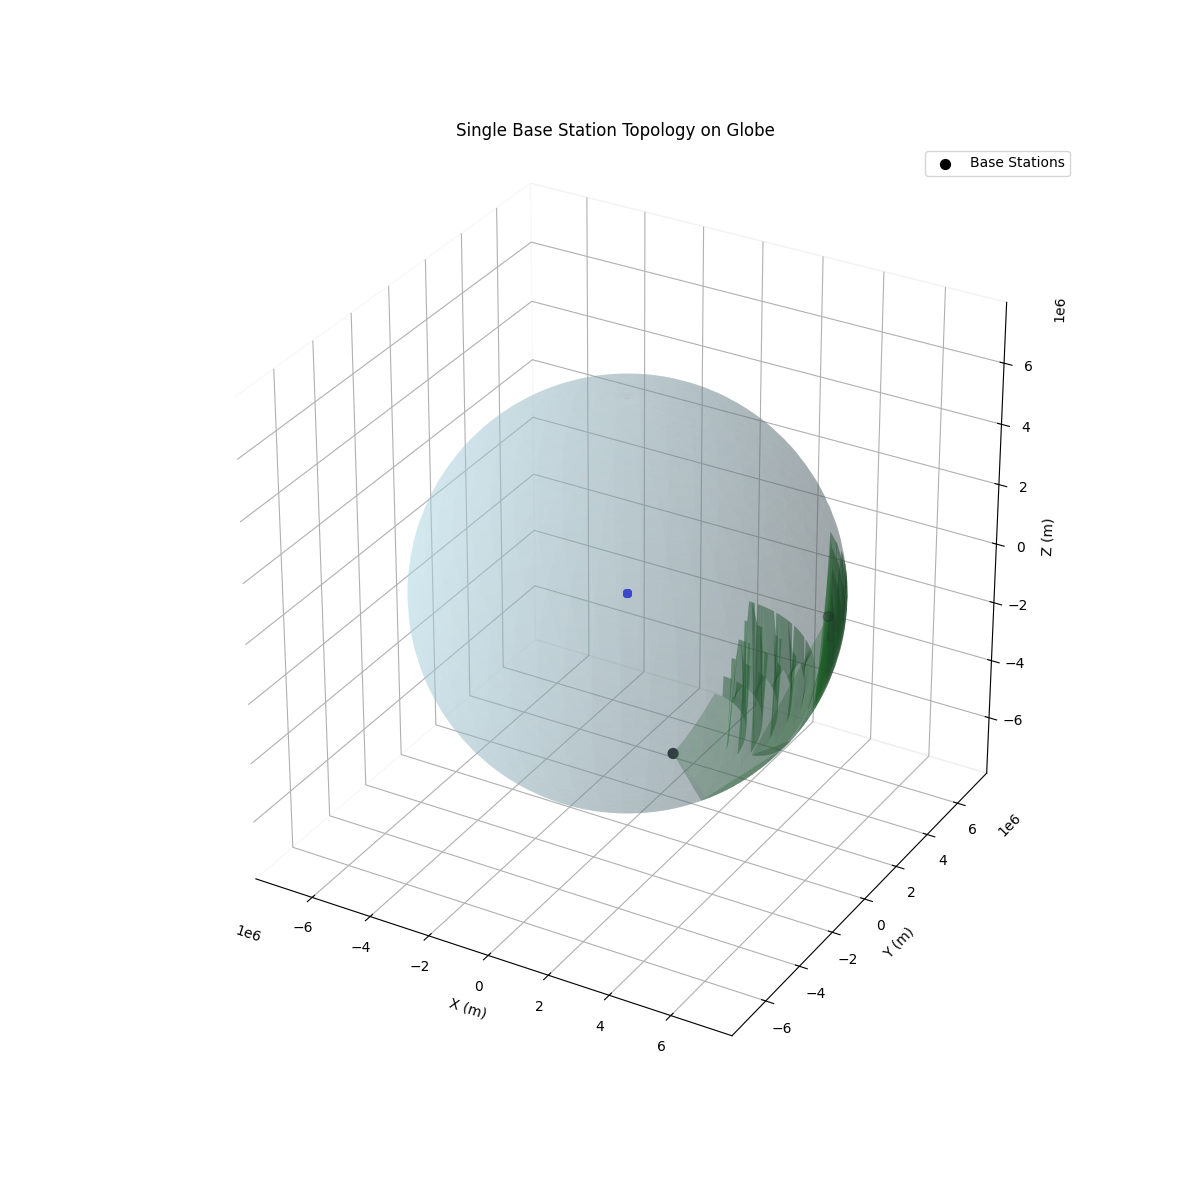
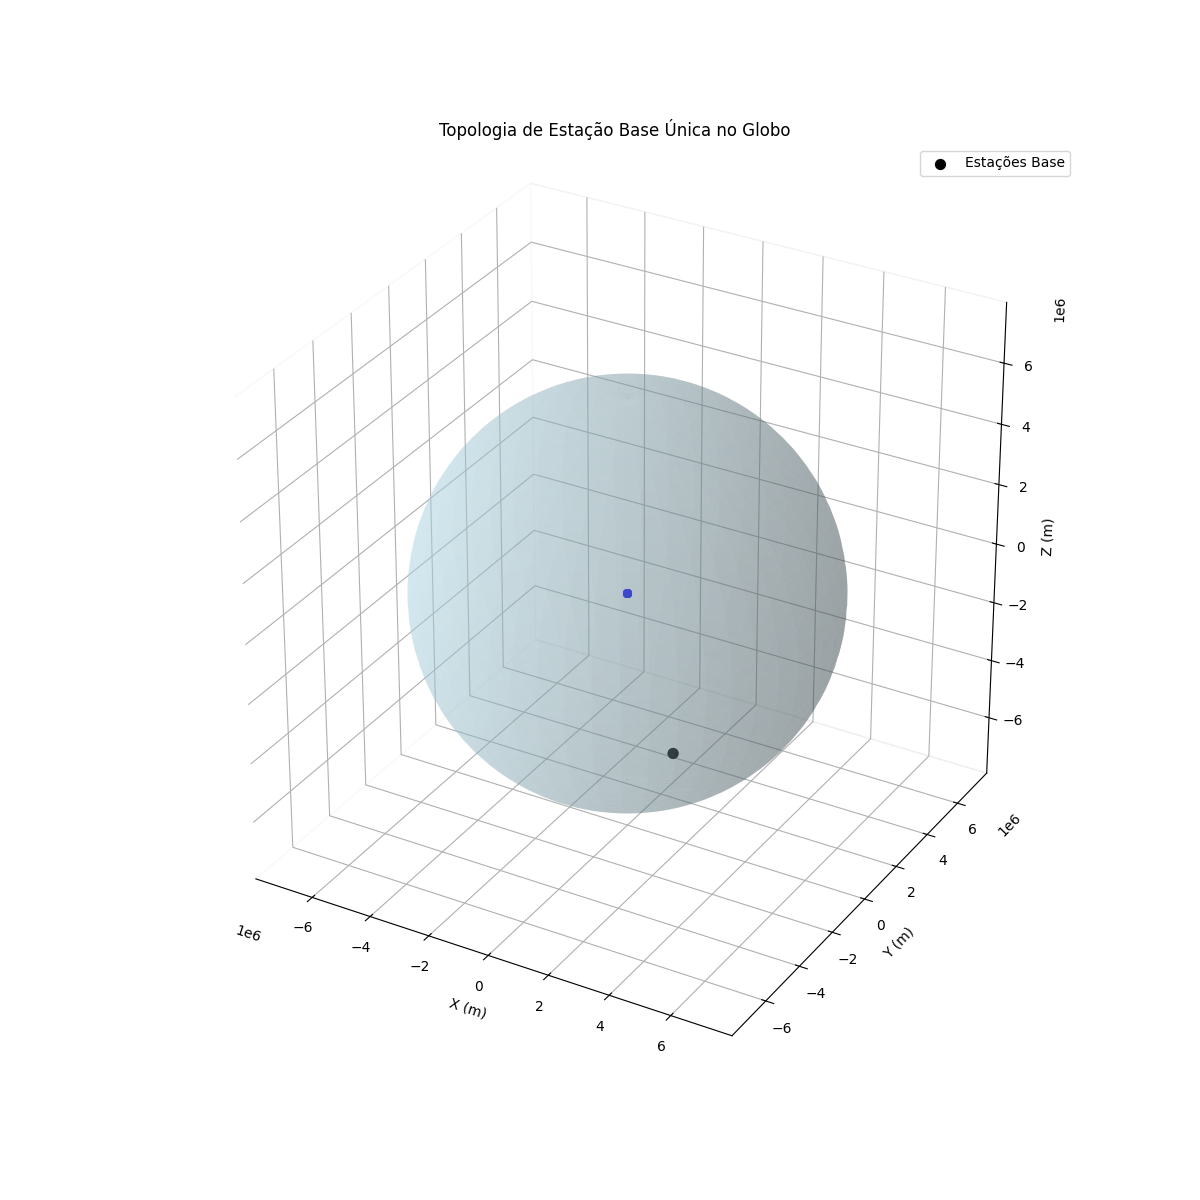
tweaks

Changed region(s): [[0.555, 0.4317, 0.7092, 0.6783], [0.37, 0.0925, 0.6475, 0.1233], [0.7708, 0.1233, 0.8942, 0.1542]]

diff --git a/sharc/topology/topology_single_base_station_spherical.py b/sharc/topology/topology_single_base_station_spherical.py
@@ -2,7 +2,6 @@ from sharc.topology.topology_single_base_station import TopologySingleBaseStatio
 import numpy as np
 import matplotlib.pyplot as plt
 from sharc.station_manager import StationManager
-import math
 
 
 class TopologySingleBaseStationSpherical(TopologySingleBaseStation):
@@ -25,8 +24,8 @@ class TopologySingleBaseStationSpherical(TopologySingleBaseStation):
         mantendo a escala apropriada para a visualização.
         """
         # Ajusta a escala em relação ao raio da célula
-        # scale_factor = 1 / self.earth_radius # esse é o certo
-        scale_factor = self.cell_radius / (2 * self.earth_radius) * 10
+        scale_factor = 1 / self.earth_radius # esse é o certo
+        #scale_factor = self.cell_radius / (2 * self.earth_radius) * 10
 
         x_scaled = x * scale_factor
         y_scaled = y * scale_factor
@@ -70,7 +69,7 @@ class TopologySingleBaseStationSpherical(TopologySingleBaseStation):
             fig = plt.figure(figsize=(12, 12))
             ax = fig.add_subplot(111, projection="3d")
 
-        # Plot the globe
+        # Plota o globo
         u = np.linspace(0, 2 * np.pi, 100)
         v = np.linspace(0, np.pi, 100)
         x = self.earth_radius * np.outer(np.cos(u), np.sin(v))
@@ -78,46 +77,46 @@ class TopologySingleBaseStationSpherical(TopologySingleBaseStation):
         z = self.earth_radius * np.outer(np.ones(np.size(u)), np.cos(v))
         ax.plot_surface(x, y, z, color="lightblue", alpha=0.3)
 
-        # Plot the coverage areas
+        # Plota as áreas de cobertura
         for x, y, az in zip(self.planar_x, self.planar_y, self.planar_azimuth):
-            # Generate points for the coverage arc with higher resolution
-            angles = np.linspace(az - 60, az + 60, 100)  # 100 points in the arc
+            # Gera pontos para o arco de cobertura com maior resolução
+            angles = np.linspace(az - 60, az + 60, 100)  # 100 pontos no arco
             coverage_points = []
 
-            # Generate points in a circular sector format
+            # Gera pontos em formato de setor circular
             for angle in angles:
-                # Generate 10 points along the radius for each angle
+                # Gera 10 pontos ao longo do raio para cada ângulo
                 for r in np.linspace(0, self.cell_radius, 10):
                     rad = np.radians(angle)
                     px = x + r * np.cos(rad)
                     py = y + r * np.sin(rad)
                     coverage_points.append([px, py])
 
-            # Project the points to spherical coordinates
+            # Projeta os pontos para coordenadas esféricas
             coverage_sphere = [
                 self._cartesian_to_sphere(px, py) for px, py in coverage_points
             ]
             coverage_sphere = np.array(coverage_sphere)
 
-            # Reshape the coverage points for plot_surface
+            # Redimensiona os pontos de cobertura para plot_surface
             X = coverage_sphere[:, 0].reshape((100, 10))
             Y = coverage_sphere[:, 1].reshape((100, 10))
             Z = coverage_sphere[:, 2].reshape((100, 10))
 
-            # Draw the coverage sector as a smooth surface
+            # Desenha o setor de cobertura como uma superfície suave
             ax.plot_surface(X, Y, Z, color="green", alpha=0.3)
 
-        # Plot the base stations
+        # Plota as estações base
         ax.scatter(
             self.x_sphere,
             self.y_sphere,
             self.z_sphere,
             color="black",
             s=50,
-            label="Base Stations",
+            label="Estações Base",
         )
 
-        # Plot settings
+        # Configurações do plot
         ax.set_box_aspect([1, 1, 1])
         limit = self.earth_radius * 1.2
         ax.set_xlim([-limit, limit])
@@ -132,7 +131,7 @@ class TopologySingleBaseStationSpherical(TopologySingleBaseStation):
         ax.yaxis.pane.fill = False
         ax.zaxis.pane.fill = False
 
-        ax.set_title("Single Base Station Topology on Globe")
+        ax.set_title("Topologia de Estação Base Única no Globo")
         ax.legend()
 
         return ax
